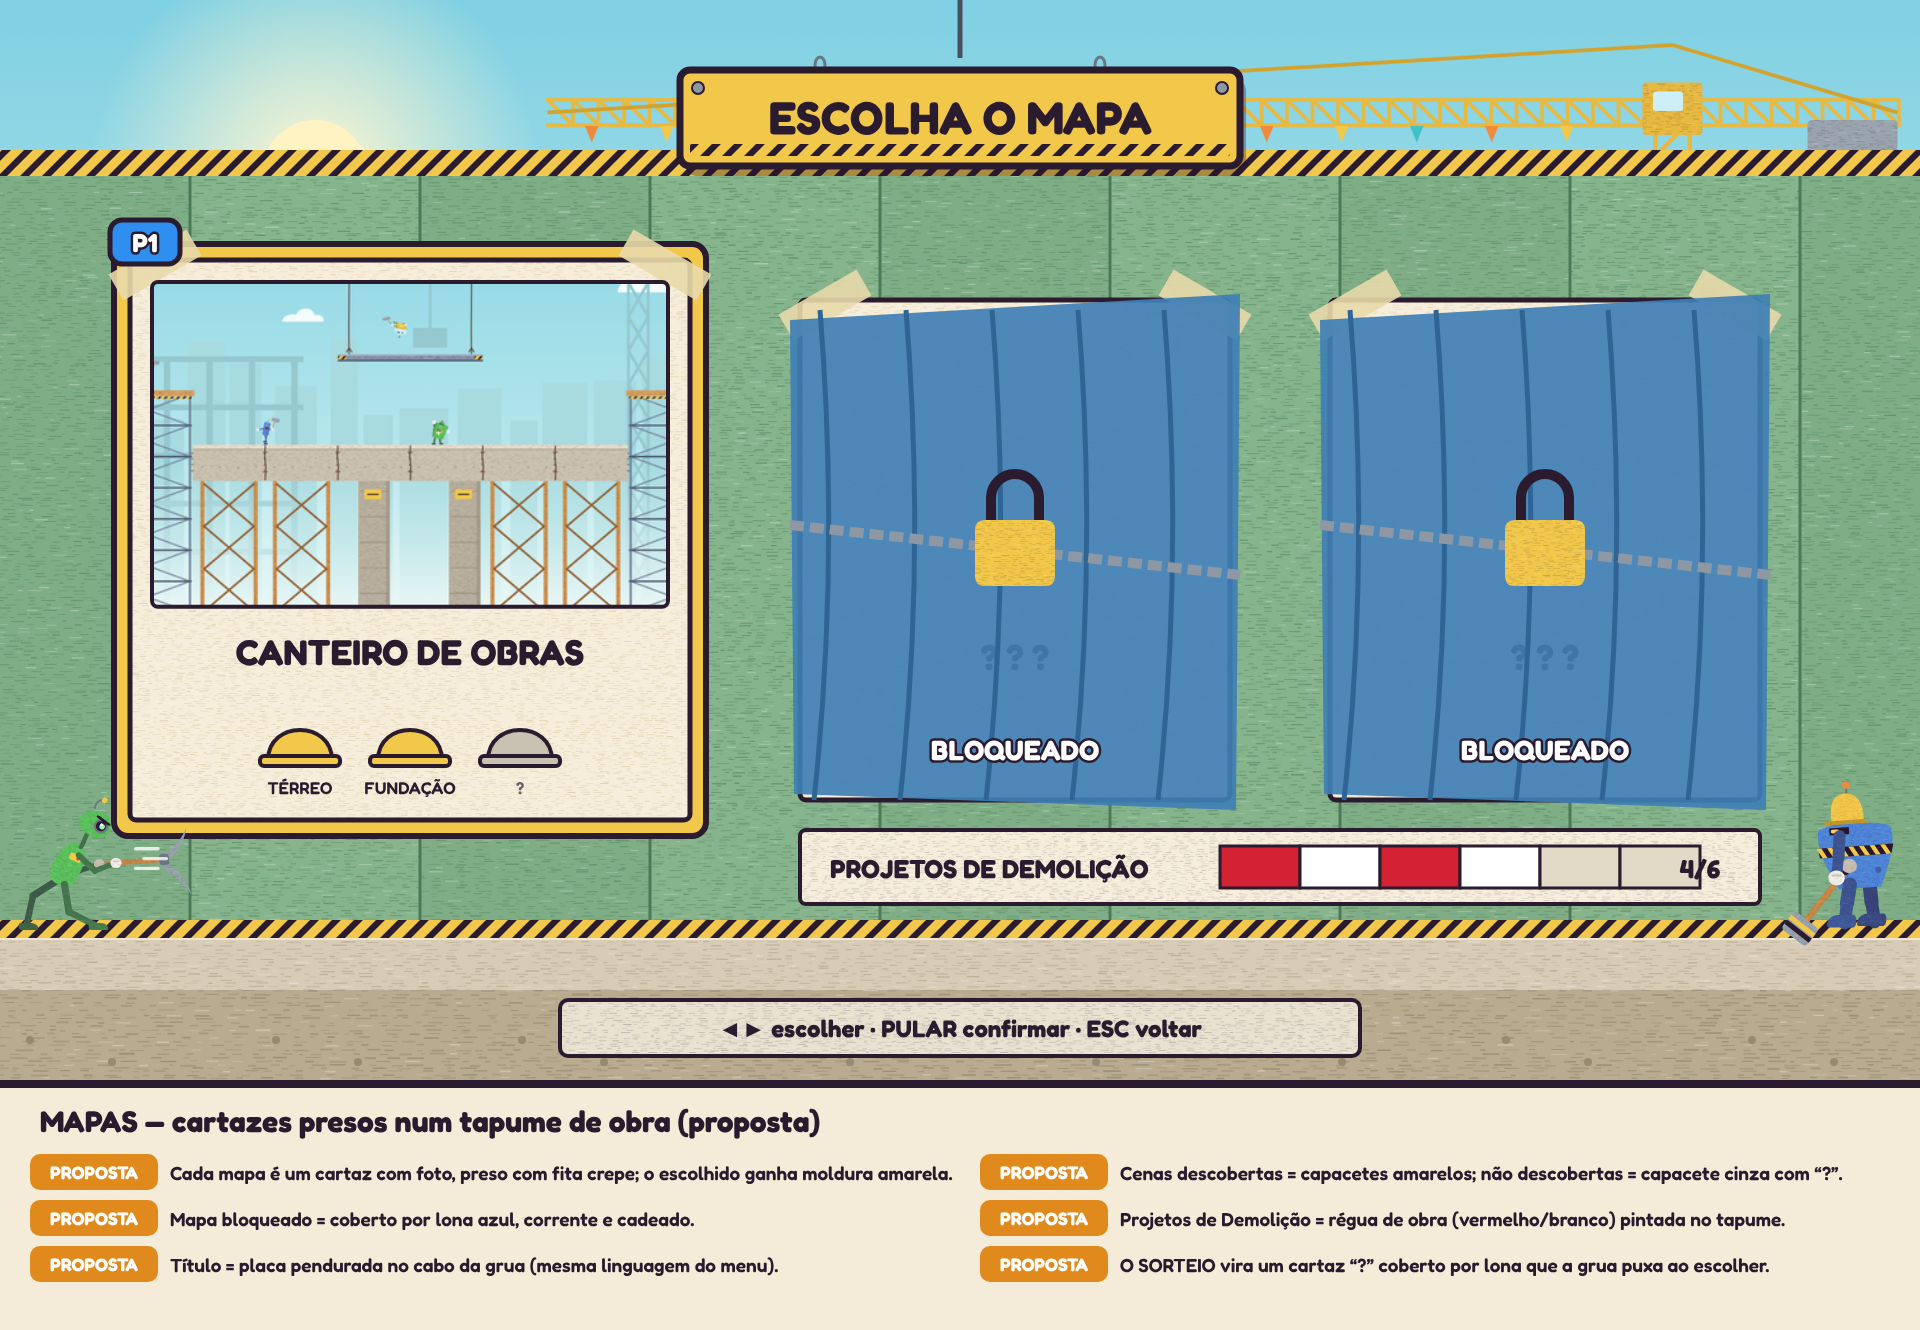
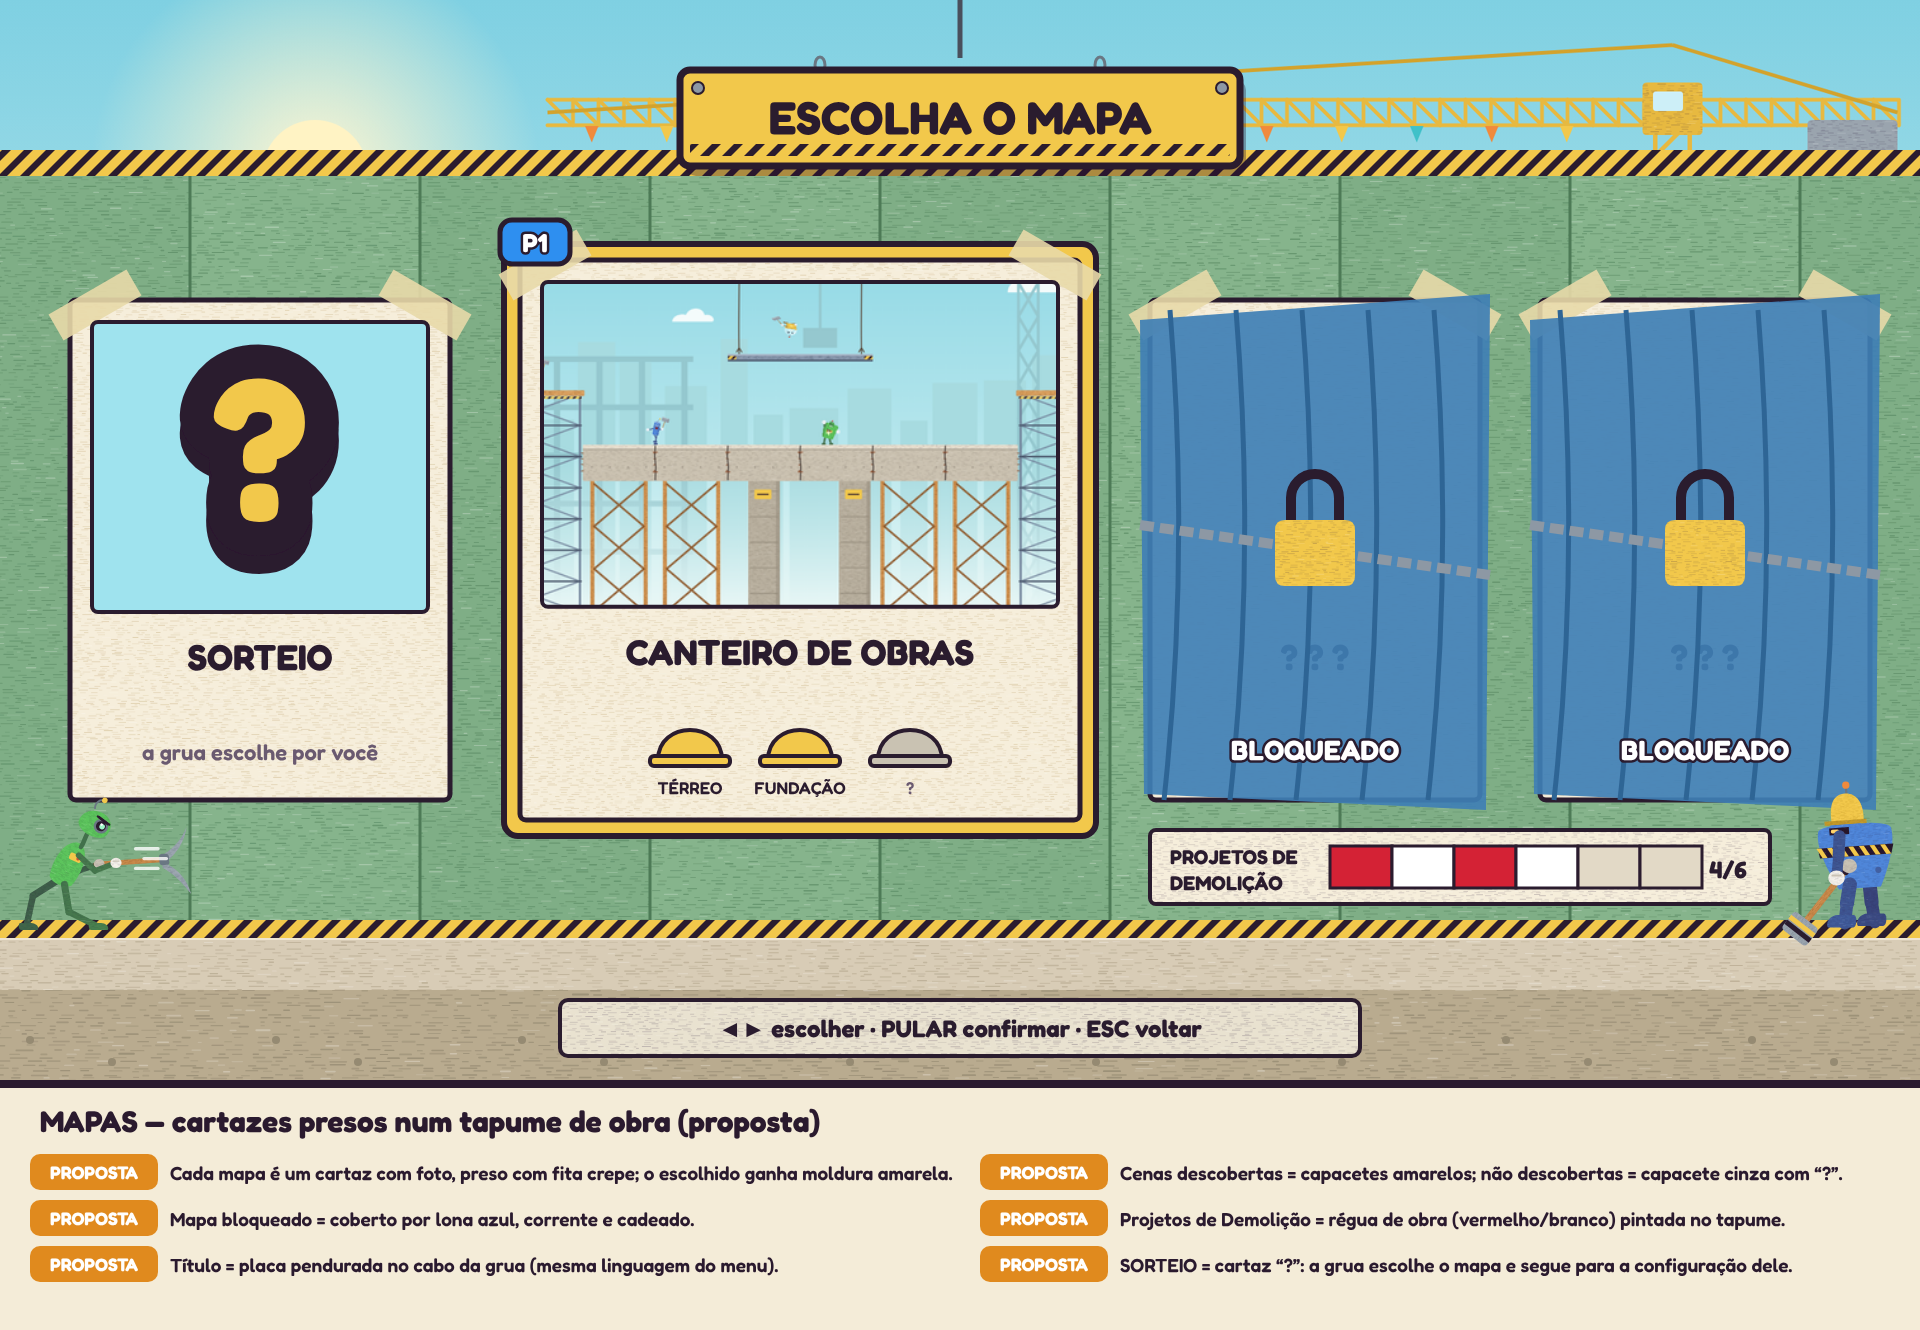
Interface Canteiro vivo v2: ajustes lapidados (pranchetas com valor grande, capacetes, sirene com mostrador, caixas de spell, detonador TNT); mapas com cartaz do Sorteio; POW fora da placa
Claude-Session: https://claude.ai/code/session_017desNJLabnbh98EwrZ9vQj

Changed region(s): [[0.0312, 0.1541, 1.0, 0.6782], [0.5938, 0.9248, 0.9375, 0.9556]]

diff --git a/art/src/ui/menus_v2.py b/art/src/ui/menus_v2.py
@@ -128,7 +128,7 @@ def tela_menu():
         b.append(corrente(cx + w / 2 - 40, y - 30 if i else 202, y))
         b.append(placa(cx, y, w, h, t, sel, rot=(-3.5 if sel else (1.2 if i % 2 else -1.0))))
         if sel:
-            b.append(pow_(cx + w / 2 + 20, y + 40, 0.9))
+            b.append(pow_(cx + w / 2 + 70, y + 64, 0.8))
         y += h + 30
     b.append(logo(60, 40, 760))
     b.append(elenco(880, [("marretao", "pesado_prep", 0, False), ("picareta", "parado", 1, False), ("chave", "rapido", 2, True),
@@ -189,17 +189,20 @@ def tela_mapas():
     b.append(f'<path d="M960,0 V58" stroke="#4a4f5c" stroke-width="5"/>' + corrente(820, 58, 74) + corrente(1100, 58, 74))
     b.append(placa(960, 70, 560, 96, "ESCOLHA O MAPA", True))
     thumb = Image.open(os.path.join(ROOT, "game/assets/ui/arena_canteiro_obras.png")).convert("RGB")
-    b.append(cartaz(130, 260, 560, 560, "CANTEIRO DE OBRAS", thumb, [("TÉRREO", True), ("FUNDAÇÃO", True), ("FACHADA", False)], sel=True))
-    b.append(chip(110, 220))
-    b.append(cartaz(800, 300, 430, 500, "? ? ?", bloqueado=True))
-    b.append(cartaz(1330, 300, 430, 500, "? ? ?", bloqueado=True))
+    b.append(cartaz(70, 300, 380, 500, "SORTEIO"))
+    b.append(f'<rect x="92" y="322" width="336" height="290" rx="6" fill="#9fe3ee" stroke="{INK}" stroke-width="4"/>' + ec.title(260, 520, "?", 200, YEL))
+    b.append(ec.T(260, 760, "a grua escolhe por você", 22, "#6b5a70", w=600))
+    b.append(cartaz(520, 260, 560, 560, "CANTEIRO DE OBRAS", thumb, [("TÉRREO", True), ("FUNDAÇÃO", True), ("FACHADA", False)], sel=True))
+    b.append(chip(500, 220))
+    b.append(cartaz(1150, 300, 330, 500, "? ? ?", bloqueado=True))
+    b.append(cartaz(1540, 300, 330, 500, "? ? ?", bloqueado=True))
     # régua de obra pintada no tapume = Projetos de Demolição
-    b.append(fp.R(800, 830, 960, 74, "#f6eedb", 6, 1.4) + f'<rect x="800" y="830" width="960" height="74" rx="6" fill="none" stroke="{INK}" stroke-width="4"/>')
-    b.append(ec.T(830, 878, "PROJETOS DE DEMOLIÇÃO", 26, INK, "start"))
+    b.append(fp.R(1150, 830, 620, 74, "#f6eedb", 6, 1.4) + f'<rect x="1150" y="830" width="620" height="74" rx="6" fill="none" stroke="{INK}" stroke-width="4"/>')
+    b.append(ec.T(1170, 864, "PROJETOS DE", 20, INK, "start") + ec.T(1170, 890, "DEMOLIÇÃO", 20, INK, "start"))
     for k in range(6):
         col = "#d42035" if k % 2 == 0 else "#ffffff"
-        b.append(f'<rect x="{1220 + k * 80}" y="846" width="80" height="42" fill="{col if k < 4 else "#e2d9c6"}" stroke="{INK}" stroke-width="3"/>')
-    b.append(ec.T(1700, 878, "4/6", 26, INK))
+        b.append(f'<rect x="{1330 + k * 62}" y="846" width="62" height="42" fill="{col if k < 4 else "#e2d9c6"}" stroke="{INK}" stroke-width="3"/>')
+    b.append(ec.T(1728, 878, "4/6", 24, INK))
     b.append(elenco(930, [("picareta", "rapido", 1, False), ("marretao", "parado", 0, True)], [60, 1860], 1.4))
     b.append(plaquinha_dica("◄► escolher  ·  PULAR confirmar  ·  ESC voltar"))
     n = ec.notes("MAPAS — cartazes presos num tapume de obra (proposta)", [
@@ -208,62 +211,143 @@ def tela_mapas():
         ("PROPOSTA", "Mapa bloqueado = coberto por lona azul, corrente e cadeado."),
         ("PROPOSTA", "Projetos de Demolição = régua de obra (vermelho/branco) pintada no tapume."),
         ("PROPOSTA", "Título = placa pendurada no cabo da grua (mesma linguagem do menu)."),
-        ("PROPOSTA", "O SORTEIO vira um cartaz “?” coberto por lona que a grua puxa ao escolher."),
+        ("PROPOSTA", "SORTEIO = cartaz “?”: a grua escolhe o mapa e segue para a configuração dele."),
     ])
     return ec.page(f'<g filter="url(#rough)">{"".join(b)}</g>', n, rough(seed=12, scale=0.6, freq=0.05))
 
 
+def estencil(x, y, txt, size, col=INK, anchor="middle"):
+    """Letra de estêncil de obra (pintada com molde): cor chapada + falhas do molde."""
+    return (f'<text x="{x}" y="{y}" font-family="Fredoka" font-weight="700" font-size="{size}" fill="{col}" text-anchor="{anchor}" '
+            f'letter-spacing="{size * 0.04:.1f}">{txt}</text>')
+
+
+def prancheta(x, y, w, h, titulo, cor, sel=False):
+    """Prancheta de obra: base de compensado, folha creme, prendedor de metal e faixa colorida do título."""
+    b = []
+    if sel:
+        b.append(f'<rect x="{x - 16}" y="{y - 16}" width="{w + 32}" height="{h + 32}" rx="22" fill="{YEL}" stroke="{INK}" stroke-width="6"/>')
+    b.append(f'<rect x="{x + 8}" y="{y + 12}" width="{w}" height="{h}" rx="16" fill="{INK}" opacity="0.4"/>')
+    b.append(fp.R(x, y, w, h, "#b57a3e", 14, 2.0, dark="#8a5a2b"))
+    b.append(f'<rect x="{x}" y="{y}" width="{w}" height="{h}" rx="14" fill="none" stroke="{INK}" stroke-width="6"/>')
+    b.append(fp.R(x + 18, y + 30, w - 36, h - 48, CREAM, 6, 1.4, dark="#e9dcc0"))
+    b.append(f'<rect x="{x + 18}" y="{y + 30}" width="{w - 36}" height="62" fill="{cor}"/>')
+    b.append(f'<rect x="{x + 18}" y="{y + 30}" width="{w - 36}" height="{h - 48}" rx="6" fill="none" stroke="{INK}" stroke-width="4"/>')
+    b.append(estencil(x + w / 2, y + 76, titulo, 34, "#ffffff"))
+    cx = x + w / 2   # prendedor
+    b.append(f'<rect x="{cx - 70}" y="{y - 10}" width="140" height="40" rx="10" fill="#9aa3ad" stroke="{INK}" stroke-width="5"/>'
+             f'<rect x="{cx - 40}" y="{y - 24}" width="80" height="22" rx="8" fill="#c9d1d8" stroke="{INK}" stroke-width="4"/>')
+    return "".join(b)
+
+
+def seta_aba(x, y, d):
+    """Botão de metal redondo com seta (◄ ►) para mudar o valor."""
+    pts = f"{x - 9 * d},{y - 15} {x + 13 * d},{y} {x - 9 * d},{y + 15}"
+    return (f'<circle cx="{x}" cy="{y}" r="27" fill="#4a5060" stroke="{INK}" stroke-width="4"/>'
+            f'<polygon points="{pts}" fill="{YEL}" stroke="{INK}" stroke-width="3" stroke-linejoin="round"/>')
+
+
+def capacete(cx, cy, s, aceso):
+    col = YEL if aceso else "#cfc8b8"
+    sh = "#c49a2a" if aceso else "#a9a293"
+    return (f'<path d="M{cx - 40 * s},{cy} C{cx - 40 * s},{cy - 56 * s} {cx + 40 * s},{cy - 56 * s} {cx + 40 * s},{cy} Z" fill="{col}" stroke="{INK}" stroke-width="5"/>'
+            f'<path d="M{cx - 6 * s},{cy - 40 * s} h12 v40 h-12z" fill="{sh}"/>'
+            f'<rect x="{cx - 52 * s}" y="{cy - 6}" width="{104 * s}" height="14" rx="7" fill="{col}" stroke="{INK}" stroke-width="5"/>')
+
+
 def tela_ajustes():
-    b = [fundo(0.15), chao(930)]
-    # quadro de avisos de compensado em dois cavaletes
-    b.append(f'<path d="M520,930 L600,760 M1400,930 L1320,760" stroke="#8a5a2b" stroke-width="18"/>')
-    b.append(fp.R(380, 150, 1160, 680, "#c98a4b", 10, 2.6, dark="#a46a35"))
-    b.append(f'<rect x="380" y="150" width="1160" height="680" rx="10" fill="none" stroke="{INK}" stroke-width="7"/>')
-    for k in range(5):
-        b.append(f'<path d="M{400 + k * 230},170 l40,640" stroke="#b57a3e" stroke-width="3" opacity="0.6"/>')
-    b.append(placa(960, 60, 640, 96, "AJUSTES DA PARTIDA", True))
-    b.append(corrente(700, 30, 60) + corrente(1220, 30, 60))
-    # fichas presas no quadro
-    def ficha(x, y, w, h, titulo, sel=False):
-        s = ""
-        if sel:
-            s += f'<rect x="{x - 12}" y="{y - 12}" width="{w + 24}" height="{h + 24}" rx="12" fill="{YEL}" stroke="{INK}" stroke-width="5"/>'
-        s += fp.R(x, y, w, h, CREAM, 6, 1.4) + f'<rect x="{x}" y="{y}" width="{w}" height="{h}" rx="6" fill="none" stroke="{INK}" stroke-width="4"/>'
-        s += f'<circle cx="{x + w / 2}" cy="{y + 4}" r="10" fill="#d42035" stroke="{INK}" stroke-width="3"/>'   # tachinha
-        s += ec.T(x + 24, y + 48, titulo, 28, INK, "start")
-        return s
-    b.append(ficha(440, 210, 500, 250, "VIDAS", True))
-    for k in range(6):   # capacetes = vidas
-        cx = 500 + k * 72
-        cy = 380
-        col = "#f2c84b" if k < 4 else "#c9c2b2"
-        b.append(f'<path d="M{cx - 28},{cy} C{cx - 28},{cy - 36} {cx + 28},{cy - 36} {cx + 28},{cy} Z" fill="{col}" stroke="{INK}" stroke-width="4"/>'
-                 f'<rect x="{cx - 34}" y="{cy - 4}" width="68" height="9" rx="4" fill="{col}" stroke="{INK}" stroke-width="4"/>')
-    b.append(ec.T(690, 440, "◄  4 vidas  ►", 26, "#6b5a70", w=600))
-    b.append(chip(410, 175))
-    b.append(ficha(980, 210, 500, 250, "EVENTOS"))
-    cx, cy = 1230, 360   # sirene com mostrador de intensidade
-    for k, lab in enumerate(["DESL.", "BAIXA", "NORMAL", "ALTA"]):
-        a = math.radians(200 + k * 46.6)
-        b.append(ec.T(cx + math.cos(a) * 130, cy + math.sin(a) * 90 + 10, lab, 17, INK if lab != "NORMAL" else "#d42035"))
-    b.append(f'<path d="M{cx - 40},{cy + 30} v-30 a40,40 0 0 1 80,0 v30z" fill="#e8483f" stroke="{INK}" stroke-width="4"/><rect x="{cx - 52}" y="{cy + 28}" width="104" height="18" fill="#4a4f5c"/>')
-    b.append(ficha(440, 500, 500, 280, "SPELLS NAS CAIXAS"))
-    b.append(f'<rect x="590" y="600" width="200" height="120" rx="16" fill="#4a4f5c" stroke="{INK}" stroke-width="5"/><rect x="610" y="620" width="70" height="80" rx="10" fill="#5fc95f" stroke="{INK}" stroke-width="4"/>')
-    b.append(ec.T(735, 672, "LIGA", 26, "#ffffff"))
-    b.append(ficha(980, 500, 500, 280, ""))
-    b.append(f'<ellipse cx="1230" cy="700" rx="140" ry="40" fill="#3a3f4a"/><ellipse cx="1230" cy="670" rx="120" ry="60" fill="#d42035" stroke="{INK}" stroke-width="6"/>')
-    b.append(ec.T(1230, 600, "INICIAR DEMOLIÇÃO", 30, INK))
-    b.append(elenco(930, [("chave", "parado", 2, False), ("britadeira", "rapido", 3, True)], [180, 1720], 1.5))
-    b.append(plaquinha_dica("▲▼◄► escolher  ·  PULAR muda  ·  START inicia  ·  ESC voltar"))
-    n = ec.notes("AJUSTES — quadro de avisos de compensado nos cavaletes (proposta)", [
-        ("PROPOSTA", "Cada ajuste é uma ficha presa com tachinha; a escolhida ganha moldura amarela."),
-        ("PROPOSTA", "Vidas = capacetes acesos (3 a 6); Eventos = sirene com mostrador de intensidade."),
-        ("PROPOSTA", "Spells nas caixas = chave industrial LIGA/DESLIGA."),
-        ("PROPOSTA", "Começar = botão vermelho “INICIAR DEMOLIÇÃO” (aperta com som e tremor)."),
-        ("PROPOSTA", "Spells e Eventos (mosaicos) ganham o mesmo fundo de obra e a placa de título."),
-        ("PROPOSTA", "Entrada de jogadores e resultados seguem a mesma linguagem (próximas pranchas)."),
+    b = [fundo(0.1), chao(930)]
+    # cavaletes de obra (A) segurando o quadro
+    for x in (470, 1450):
+        b.append(f'<path d="M{x - 70},930 L{x},760 L{x + 70},930" stroke="#8a5a2b" stroke-width="22" fill="none" stroke-linejoin="round"/>'
+                 f'<path d="M{x - 45},850 h90" stroke="#8a5a2b" stroke-width="14"/>')
+    # quadro de compensado
+    b.append(f'<rect x="268" y="168" width="1400" height="760" rx="18" fill="{INK}" opacity="0.35"/>')
+    b.append(fp.R(260, 150, 1400, 760, "#d9a35f", 16, 2.6, dark="#b57a3e"))
+    for k in range(9):
+        b.append(f'<path d="M{300 + k * 160},160 q30,350 -10,700" stroke="#c28a4a" stroke-width="4" fill="none" opacity="0.55"/>')
+    b.append(f'<rect x="260" y="150" width="1400" height="760" rx="16" fill="none" stroke="{INK}" stroke-width="8"/>')
+    for sx, sy in ((290, 180), (1630, 180), (290, 880), (1630, 880)):   # parafusos
+        b.append(f'<circle cx="{sx}" cy="{sy}" r="10" fill="#8d98a4" stroke="{INK}" stroke-width="3"/><path d="M{sx - 6},{sy} h12" stroke="{INK}" stroke-width="3"/>')
+    b.append(fp.cd.zebra(330, 878, 1260, 16))
+    # título: placa pendurada
+    b.append(corrente(690, 26, 64) + corrente(1230, 26, 64))
+    b.append(placa(960, 60, 660, 100, "AJUSTES DA PARTIDA", True))
+    b.append(estencil(960, 214, "CANTEIRO DE OBRAS · 3 CENAS", 26, "#6b3f17"))
+
+    # 1) VIDAS — capacetes na prateleira + número grande
+    x, y, w, h = 320, 236, 620, 300
+    b.append(prancheta(x, y, w, h, "VIDAS", "#2f8ff0", sel=True))
+    b.append(chip(x - 30, y - 40))
+    b.append(seta_aba(x + 62, y + 190, -1) + seta_aba(x + 218, y + 190, 1))
+    b.append(estencil(x + 140, y + 232, "4", 118, INK))
+    b.append(f'<rect x="{x + 262}" y="{y + 222}" width="330" height="14" fill="#8a5a2b" stroke="{INK}" stroke-width="3"/>')   # prateleira
+    for k in range(6):
+        b.append(capacete(x + 290 + k * 54, y + 220, 0.52, k < 4))
+    b.append(estencil(x + 427, y + 140, "de 3 a 6", 24, "#6b5a70"))
+
+    # 2) EVENTOS — sirene girando + mostrador
+    x, y = 980, 236
+    b.append(prancheta(x, y, w, h, "EVENTOS", "#d42035"))
+    cx, cy = x + 150, y + 210
+    for k in range(3):   # facho girando
+        a = math.radians(-60 + k * 50)
+        b.append(f'<path d="M{cx},{cy - 30} L{cx + math.cos(a) * 160:.0f},{cy - 30 + math.sin(a) * 90:.0f} L{cx + math.cos(a + 0.35) * 160:.0f},{cy - 30 + math.sin(a + 0.35) * 90:.0f}Z" fill="#ffd34d" opacity="0.35"/>')
+    b.append(f'<rect x="{cx - 56}" y="{cy + 2}" width="112" height="26" rx="6" fill="#4a4f5c" stroke="{INK}" stroke-width="4"/>'
+             f'<path d="M{cx - 44},{cy + 4} v-38 a44,44 0 0 1 88,0 v38z" fill="#e8483f" stroke="{INK}" stroke-width="5"/>'
+             f'<path d="M{cx - 20},{cy - 30} a20,20 0 0 1 18,-20" stroke="#ffd0c8" stroke-width="7" fill="none" stroke-linecap="round"/>')
+    gx, gy, gr = x + 430, y + 222, 88   # mostrador
+    labs = ["DESL.", "BAIXA", "NORMAL", "ALTA"]
+    cols = ["#8d98a4", "#8fd46a", "#f2d04b", "#ec6448"]
+    for k in range(4):
+        a0 = math.radians(180 + k * 45)
+        a1 = math.radians(180 + (k + 1) * 45)
+        b.append(f'<path d="M{gx},{gy} L{gx + math.cos(a0) * gr:.1f},{gy + math.sin(a0) * gr:.1f} A{gr},{gr} 0 0 1 {gx + math.cos(a1) * gr:.1f},{gy + math.sin(a1) * gr:.1f}Z" fill="{cols[k]}" stroke="{INK}" stroke-width="4"/>')
+        am = math.radians(180 + (k + 0.5) * 45)
+        b.append(ec.T(gx + math.cos(am) * (gr + 34), gy + math.sin(am) * (gr + 26) + 6, labs[k], 17, INK))
+    an = math.radians(180 + 2.5 * 45)
+    b.append(f'<path d="M{gx},{gy} L{gx + math.cos(an) * (gr - 10):.1f},{gy + math.sin(an) * (gr - 10):.1f}" stroke="{INK}" stroke-width="9" stroke-linecap="round"/><circle cx="{gx}" cy="{gy}" r="12" fill="{YEL}" stroke="{INK}" stroke-width="4"/>')
+    b.append(estencil(gx, gy + 46, "NORMAL", 28, "#b0331f"))
+
+    # 3) SPELLS NAS CAIXAS — as caixas de verdade + alavanca
+    x, y = 320, 566
+    b.append(prancheta(x, y, w, h, "SPELLS NAS CAIXAS", "#8a5ad8"))
+    for k, fam in enumerate(("ataque", "controle", "engenharia", "transformacao")):
+        im = Image.open(os.path.join(ROOT, f"game/assets/spells/caixa_{fam}.png")).convert("RGBA")
+        b.append(ec.img(im.crop(im.getbbox()), x + 90 + k * 86, y + 170, 78, 78))
+    b.append(estencil(x + 220, y + 252, "23 acesas no mosaico", 22, "#5a3fa0"))
+    sx, sy = x + 500, y + 168   # alavanca industrial
+    b.append(f'<rect x="{sx - 60}" y="{sy - 70}" width="120" height="150" rx="14" fill="#4a5060" stroke="{INK}" stroke-width="5"/>'
+             f'<rect x="{sx - 12}" y="{sy - 50}" width="24" height="110" rx="12" fill="#2a2f3a"/>'
+             f'<path d="M{sx},{sy + 30} L{sx + 4},{sy - 42}" stroke="#c9d1d8" stroke-width="14" stroke-linecap="round"/>'
+             f'<circle cx="{sx + 4}" cy="{sy - 48}" r="18" fill="#5fc95f" stroke="{INK}" stroke-width="5"/>')
+    b.append(estencil(sx, sy + 106, "LIGADAS", 20, "#2e7d32"))
+
+    # 4) INICIAR DEMOLIÇÃO — detonador de TNT
+    x, y = 980, 566
+    b.append(prancheta(x, y, w, h, "INICIAR DEMOLIÇÃO", "#2a1a2e"))
+    dx, dy = x + 190, y + 186
+    b.append(f'<path d="M{dx},{dy - 66} V{dy - 10}" stroke="#c9d1d8" stroke-width="14"/>'
+             f'<rect x="{dx - 70}" y="{dy - 80}" width="140" height="22" rx="10" fill="#c9d1d8" stroke="{INK}" stroke-width="5"/>')
+    b.append(f'<rect x="{dx - 110}" y="{dy - 14}" width="220" height="86" rx="12" fill="#d42035" stroke="{INK}" stroke-width="6"/>')
+    b.append(fp.cd.zebra(dx - 100, dy + 46, 200, 18))
+    b.append(estencil(dx, dy + 34, "TNT", 40, "#ffffff"))
+    b.append(f'<path d="M{dx + 110},{dy + 40} C{dx + 200},{dy + 40} {dx + 180},{dy - 60} {dx + 300},{dy - 40}" stroke="#2a2f3a" stroke-width="7" fill="none"/>')
+    for k in range(3):   # bananas de dinamite
+        b.append(f'<rect x="{dx + 296 + k * 28}" y="{dy - 80}" width="24" height="96" rx="8" fill="#e8483f" stroke="{INK}" stroke-width="4"/>')
+    b.append(estencil(dx + 310, dy + 66, "aperte START", 24, "#6b5a70"))
+
+    b.append(elenco(930, [("chave", "parado", 2, False), ("marretao", "pesado_prep", 0, True)], [150, 1780], 1.5))
+    b.append(plaquinha_dica("▲▼◄► escolher  ·  ◄► muda o valor  ·  START detona  ·  ESC voltar"))
+    n = ec.notes("AJUSTES v2 — pranchetas de obra num quadro de compensado (proposta lapidada)", [
+        ("PROPOSTA", "Cada ajuste = prancheta com prendedor e faixa colorida; o valor aparece GRANDE."),
+        ("PROPOSTA", "Vidas: número em estêncil + capacetes acesos na prateleira (3 a 6)."),
+        ("PROPOSTA", "Eventos: sirene girando + mostrador DESL./BAIXA/NORMAL/ALTA com ponteiro."),
+        ("PROPOSTA", "Spells: as 4 caixas de spell de verdade + alavanca LIGA/DESLIGA."),
+        ("PROPOSTA", "Começar: detonador de TNT (START) — a alavanca desce, BUM, e a luta começa."),
+        ("PROPOSTA", "Escolhida = moldura amarela + chip P1; ◄► mudam pelas abas de metal."),
     ])
-    return ec.page(f'<g filter="url(#rough)">{"".join(b)}</g>', n, rough(seed=13, scale=0.6, freq=0.05))
+    return ec.page(f'<g filter="url(#rough)">{"".join(b)}</g>', n, rough(seed=13, scale=0.5, freq=0.05))
 
 
 def tela_abertura():
